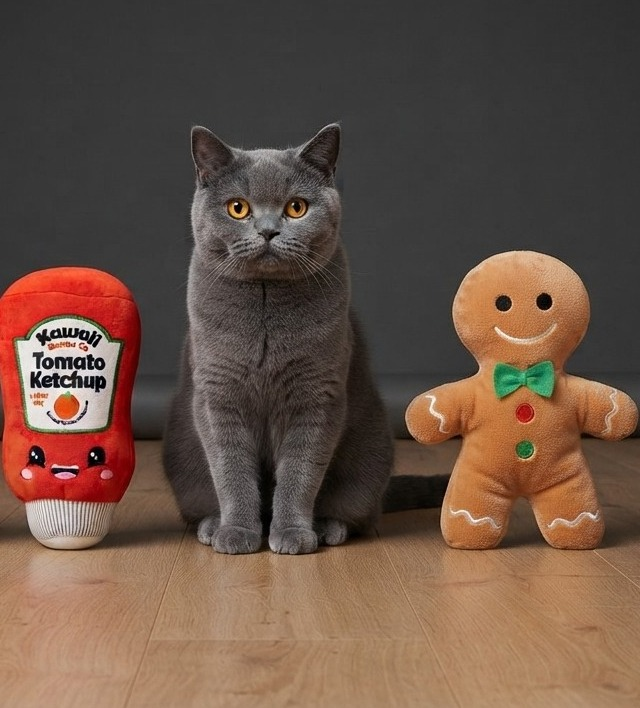
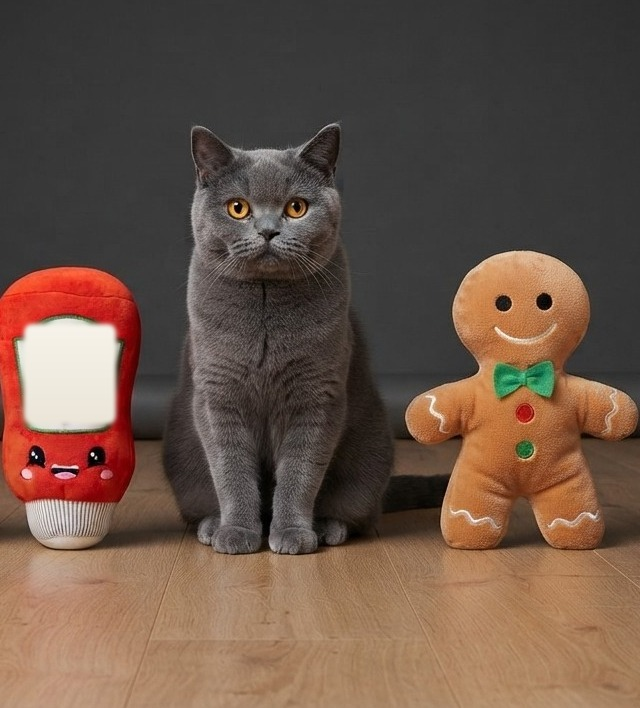
Ketchup met leeg etiket op de castfoto en in de prompts (merkfilter)
Claude-Session: https://claude.ai/code/session_0123oqNM6CTANJdbukSW6oWF

Changed region(s): [[0.0312, 0.435, 0.1875, 0.6215]]

diff --git a/series/rookie/ep1/PROMPTS.md b/series/rookie/ep1/PROMPTS.md
@@ -22,7 +22,7 @@ _Marcel zegt:_ Onder de zetel wacht mijn nieuwe partner op mij: sergeant Peperko
 ## [ ] s03.jpg
 
 ```
-Characters in this scene: Marcel (the grey British Shorthair cat with orange eyes); Peperkoek (the light-brown gingerbread man plush with the green bow tie); Ketchup (the red plush ketchup bottle with the cute face). Ketchup bursts dramatically into the tiny under-sofa headquarters, leaning forward in panic. Marcel and Peperkoek turn towards him in surprise. Dramatic side light, a little dust flying up. Same characters as in the two cast photos. A real photograph, like a still from a live-action police TV drama shot at cat height in a real cosy Belgian home, natural light, shallow depth of field, subtle film grain, 16:9 landscape. The toys are soft plush toys with stitched seams, not real food. Not a painting, not digital art, not CGI. No people, no text, no letters.
+Characters in this scene: Marcel (the grey British Shorthair cat with orange eyes); Peperkoek (the light-brown gingerbread man plush with the green bow tie); Ketchup (the red plush sauce bottle toy with a blank white label and a cute face). Ketchup bursts dramatically into the tiny under-sofa headquarters, leaning forward in panic. Marcel and Peperkoek turn towards him in surprise. Dramatic side light, a little dust flying up. Same characters as in the two cast photos. A real photograph, like a still from a live-action police TV drama shot at cat height in a real cosy Belgian home, natural light, shallow depth of field, subtle film grain, 16:9 landscape. The toys are soft plush toys with stitched seams, not real food. Not a painting, not digital art, not CGI. No people, no text, no letters.
 ```
 
 _Marcel zegt:_ Nog voor ik die badge goed en wel kan bewonderen, stormt Ketchup binnen, onze forensisch expert en het meest dramatische lid van het korps. Hij is rood aangelopen, maar dat is hij eigenlijk altijd. Het kattenkruidkussentje is verdwenen, roept hij. Het kussentje van de vensterbank. Het heiligste voorwerp van dit huis. Peperkoek kijkt me aan en zegt maar één woord: instappen.
@@ -30,7 +30,7 @@ _Marcel zegt:_ Nog voor ik die badge goed en wel kan bewonderen, stormt Ketchup 
 ## [ ] s04.jpg
 
 ```
-Characters in this scene: Marcel (the grey British Shorthair cat with orange eyes); Ketchup (the red plush ketchup bottle with the cute face); Peperkoek (the light-brown gingerbread man plush with the green bow tie). A sunny windowsill turned into a crime scene: an empty dent in the sun where a small pillow used to lie, tiny yellow police tape around it. Clues: one long orange cat hair, a trail of tiny mouse footprints in the dust, a small crumb of cheese. Ketchup holds a magnifying glass over the orange hair, Marcel inspects the footprints, Peperkoek watches with his arms crossed. A tiny blurred fly in the bright window. Same characters as in the two cast photos. A real photograph, like a still from a live-action police TV drama shot at cat height in a real cosy Belgian home, natural light, shallow depth of field, subtle film grain, 16:9 landscape. The toys are soft plush toys with stitched seams, not real food. Not a painting, not digital art, not CGI. No people, no text, no letters.
+Characters in this scene: Marcel (the grey British Shorthair cat with orange eyes); Ketchup (the red plush sauce bottle toy with a blank white label and a cute face); Peperkoek (the light-brown gingerbread man plush with the green bow tie). A sunny windowsill turned into a crime scene: an empty dent in the sun where a small pillow used to lie, tiny yellow police tape around it. Clues: one long orange cat hair, a trail of tiny mouse footprints in the dust, a small crumb of cheese. Ketchup holds a magnifying glass over the orange hair, Marcel inspects the footprints, Peperkoek watches with his arms crossed. A tiny blurred fly in the bright window. Same characters as in the two cast photos. A real photograph, like a still from a live-action police TV drama shot at cat height in a real cosy Belgian home, natural light, shallow depth of field, subtle film grain, 16:9 landscape. The toys are soft plush toys with stitched seams, not real food. Not a painting, not digital art, not CGI. No people, no text, no letters.
 ```
 
 _Marcel zegt:_ De vensterbank is een plaats delict. Waar ooit het kussentje lag, zie ik nu alleen nog een lege afdruk in de zon, en rond die afdruk ligt meer bewijs dan ik op mijn eerste dag had durven hopen. Ketchup vindt een lange, oranje haar. Ik vind een spoor van piepkleine pootjes in het stof. En ergens boven ons zoemt iets, heel zacht, alsof het ons uitlacht. Peperkoek laat de keuze aan mij. Een goede agent, zegt hij, weet waar hij moet beginnen.
@@ -86,7 +86,7 @@ _Marcel zegt:_ En daar, aan de andere kant van het kattenluik, verschijnt een ko
 ## [ ] s09a.jpg
 
 ```
-Characters in this scene: Marcel (the grey British Shorthair cat with orange eyes); Roger (the big fluffy ginger tomcat with green eyes); Ketchup (the red plush ketchup bottle with the cute face); Peperkoek (the light-brown gingerbread man plush with the green bow tie). At the cat flap, Marcel proudly presses his paw on Roger's paw as if arresting him. Roger looks amused. Behind Marcel, Ketchup cheers with joy while Peperkoek holds his head in disbelief. Same characters as in the two cast photos. A real photograph, like a still from a live-action police TV drama shot at cat height in a real cosy Belgian home, natural light, shallow depth of field, subtle film grain, 16:9 landscape. The toys are soft plush toys with stitched seams, not real food. Not a painting, not digital art, not CGI. No people, no text, no letters.
+Characters in this scene: Marcel (the grey British Shorthair cat with orange eyes); Roger (the big fluffy ginger tomcat with green eyes); Ketchup (the red plush sauce bottle toy with a blank white label and a cute face); Peperkoek (the light-brown gingerbread man plush with the green bow tie). At the cat flap, Marcel proudly presses his paw on Roger's paw as if arresting him. Roger looks amused. Behind Marcel, Ketchup cheers with joy while Peperkoek holds his head in disbelief. Same characters as in the two cast photos. A real photograph, like a still from a live-action police TV drama shot at cat height in a real cosy Belgian home, natural light, shallow depth of field, subtle film grain, 16:9 landscape. The toys are soft plush toys with stitched seams, not real food. Not a painting, not digital art, not CGI. No people, no text, no letters.
 ```
 
 _Marcel zegt:_ Ik aarzel geen seconde. Ik druk mijn poot op de zijne en zeg de woorden waarvan ik al maanden droom: Roger, je staat onder arrest. Ketchup barst in tranen uit van trots. Roger kijkt eerst naar mijn poot, dan naar mij, en begint heel langzaam te grijnzen.
@@ -102,7 +102,7 @@ _Marcel zegt:_ Het blijkt dat Roger een alibi heeft. Hij heeft de hele nacht in 
 ## [ ] s09b.jpg
 
 ```
-Characters in this scene: Marcel (the grey British Shorthair cat with orange eyes); Ketchup (the red plush ketchup bottle with the cute face). Back on the sunny windowsill. Ketchup holds up a tiny crumb of cheese to the light, Marcel leans in to look at it through a magnifying glass, eyes wide as he realises the truth. Bright, warm light. Same characters as in the two cast photos. A real photograph, like a still from a live-action police TV drama shot at cat height in a real cosy Belgian home, natural light, shallow depth of field, subtle film grain, 16:9 landscape. The toys are soft plush toys with stitched seams, not real food. Not a painting, not digital art, not CGI. No people, no text, no letters.
+Characters in this scene: Marcel (the grey British Shorthair cat with orange eyes); Ketchup (the red plush sauce bottle toy with a blank white label and a cute face). Back on the sunny windowsill. Ketchup holds up a tiny crumb of cheese to the light, Marcel leans in to look at it through a magnifying glass, eyes wide as he realises the truth. Bright, warm light. Same characters as in the two cast photos. A real photograph, like a still from a live-action police TV drama shot at cat height in a real cosy Belgian home, natural light, shallow depth of field, subtle film grain, 16:9 landscape. The toys are soft plush toys with stitched seams, not real food. Not a painting, not digital art, not CGI. No people, no text, no letters.
 ```
 
 _Marcel zegt:_ Ik laat Roger gaan. Een blaadje aan je snor is nog geen bekentenis. Terug op de vensterbank heeft Ketchup intussen iets gevonden dat iedereen over het hoofd zag: een minuscuul kruimeltje kaas, precies op de plek van het kussentje. Kaas. Onder de koelkast. Trillende snorharen. Plots valt alles in mijn hoofd op zijn plaats, met hetzelfde geluid als een blikje brokjes dat opengaat.
@@ -118,7 +118,7 @@ _Marcel zegt:_ Onder de koelkast vind ik het kussentje terug. Pieter de Muis sta
 ## [ ] s11a.jpg
 
 ```
-Characters in this scene: Marcel (the grey British Shorthair cat with orange eyes); Peperkoek (the light-brown gingerbread man plush with the green bow tie); Ketchup (the red plush ketchup bottle with the cute face). Evening in the kitchen. Marcel lies calmly in front of the fridge like a guard, with the baby mice asleep on the pillow in the gap behind him. Peperkoek places a tiny medal made of white icing on Marcel's chest. Ketchup turns away, wiping a tear. Warm golden evening light. Same characters as in the two cast photos. A real photograph, like a still from a live-action police TV drama shot at cat height in a real cosy Belgian home, natural light, shallow depth of field, subtle film grain, 16:9 landscape. The toys are soft plush toys with stitched seams, not real food. Not a painting, not digital art, not CGI. No people, no text, no letters.
+Characters in this scene: Marcel (the grey British Shorthair cat with orange eyes); Peperkoek (the light-brown gingerbread man plush with the green bow tie); Ketchup (the red plush sauce bottle toy with a blank white label and a cute face). Evening in the kitchen. Marcel lies calmly in front of the fridge like a guard, with the baby mice asleep on the pillow in the gap behind him. Peperkoek places a tiny medal made of white icing on Marcel's chest. Ketchup turns away, wiping a tear. Warm golden evening light. Same characters as in the two cast photos. A real photograph, like a still from a live-action police TV drama shot at cat height in a real cosy Belgian home, natural light, shallow depth of field, subtle film grain, 16:9 landscape. The toys are soft plush toys with stitched seams, not real food. Not a painting, not digital art, not CGI. No people, no text, no letters.
 ```
 
 _Marcel zegt:_ Ik laat het kussentje liggen. Sommige zaken los je op met een arrestatie, andere met een dutje en een beetje begrip. Peperkoek zegt niets, maar legt een klein medaillon van glazuur op mijn borst, en Ketchup moet zich omdraaien omdat er saus uit zijn ogen komt. Die nacht slaap ik voor de koelkast, als bewaker van vijf muisjes die me nooit zullen bedanken. Het was, zonder twijfel, de beste eerste dag ooit.
@@ -126,7 +126,7 @@ _Marcel zegt:_ Ik laat het kussentje liggen. Sommige zaken los je op met een arr
 ## [ ] s11b.jpg
 
 ```
-Characters in this scene: Marcel (the grey British Shorthair cat with orange eyes); Ketchup (the red plush ketchup bottle with the cute face); Peperkoek (the light-brown gingerbread man plush with the green bow tie). The middle of the living room. Marcel rolls blissfully on his back on a small catnip pillow, paws in the air, eyes half closed, a silly happy face. Ketchup and Peperkoek stand next to him, staring in disbelief. Bright daylight, comedic. Same characters as in the two cast photos. A real photograph, like a still from a live-action police TV drama shot at cat height in a real cosy Belgian home, natural light, shallow depth of field, subtle film grain, 16:9 landscape. The toys are soft plush toys with stitched seams, not real food. Not a painting, not digital art, not CGI. No people, no text, no letters.
+Characters in this scene: Marcel (the grey British Shorthair cat with orange eyes); Ketchup (the red plush sauce bottle toy with a blank white label and a cute face); Peperkoek (the light-brown gingerbread man plush with the green bow tie). The middle of the living room. Marcel rolls blissfully on his back on a small catnip pillow, paws in the air, eyes half closed, a silly happy face. Ketchup and Peperkoek stand next to him, staring in disbelief. Bright daylight, comedic. Same characters as in the two cast photos. A real photograph, like a still from a live-action police TV drama shot at cat height in a real cosy Belgian home, natural light, shallow depth of field, subtle film grain, 16:9 landscape. The toys are soft plush toys with stitched seams, not real food. Not a painting, not digital art, not CGI. No people, no text, no letters.
 ```
 
 _Marcel zegt:_ Ik neem het kussentje mee, voor de goede orde en als bewijsstuk. Dat was een fout. Na tien seconden kattenkruid lig ik op mijn rug in het midden van de woonkamer, verklaar ik mijn liefde aan Ketchup en probeer ik De Vlieg te arresteren voor een vlek op het plafond. In het officiële rapport staat later maar één zin: agent Marcel was niet in staat om verdere vragen te beantwoorden.

diff --git a/series/rookie/PERSONAGES.md b/series/rookie/PERSONAGES.md
@@ -57,9 +57,9 @@ Make a square character portrait of Pieter de Muis: a small brown mouse with big
 
 ### Stap 3b: namen koppelen (één keer)
 
-Gebruik voor The Rookie **niet** de huiscastfoto met de teddybeer en de bouwsteenplantjes: die zijn merkfiguren en dan weigert Gemini ("third-party content providers"). Gebruik `assets/cast/cast-rookie.jpg` (Ketchup, Marcel, Peperkoek) en `assets/cast/cast-straat.jpg`, en noem nooit een merk- of filmnaam.
+Gebruik voor The Rookie **niet** de huiscastfoto met de teddybeer en de bouwsteenplantjes: die zijn merkfiguren en dan weigert Gemini ("third-party content providers"). Gebruik `assets/cast/cast-rookie.jpg` (Ketchup, Marcel, Peperkoek) en `assets/cast/cast-straat.jpg`, en noem nooit een merk- of filmnaam. Op `cast-rookie.jpg` is het etiket van Ketchup leeggemaakt, want een rode fles met "Tomato Ketchup" lijkt op een bekend merk; beschrijf hem als "red plush sauce bottle with a blank white label".
 
-> In deze serie heten de personages zo. Op de eerste foto, van links naar rechts: Ketchup = de rode ketchupfles-knuffel, Marcel = de grijze kat, Peperkoek = het peperkoeken mannetje met het groene strikje. Op de tweede foto, van links naar rechts: Gerrit = de duif, Roger = de rosse kater, Marcel = de grijze kat, Pieter = de muis, en de vlieg. Als ik in een scène een naam gebruik, bedoel ik altijd exact dat personage van deze foto's. Antwoord enkel met "oké".
+> In deze serie heten de personages zo. Op de eerste foto, van links naar rechts: Ketchup = de rode sausfles-knuffel met het lege witte etiket, Marcel = de grijze kat, Peperkoek = het peperkoeken mannetje met het groene strikje. Op de tweede foto, van links naar rechts: Gerrit = de duif, Roger = de rosse kater, Marcel = de grijze kat, Pieter = de muis, en de vlieg. Als ik in een scène een naam gebruik, bedoel ik altijd exact dat personage van deze foto's. Antwoord enkel met "oké".
 
 ### Stap 4: de scènes
 Plak per scène de prompt uit `ep1/PROMPTS.md` (of uit de chat), telkens met de castfoto erbij. Sla elk beeld op als `s01.jpg`, `s02.jpg`, … in `series/rookie/ep1/`.
